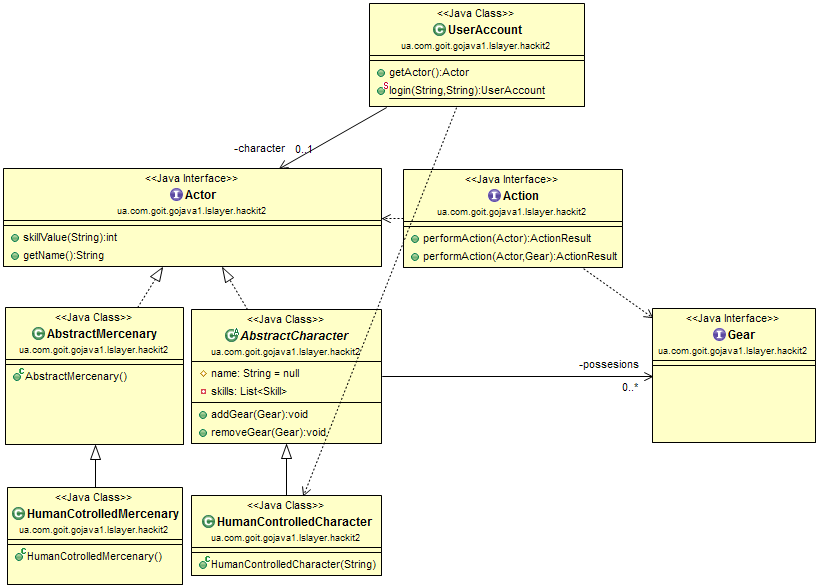
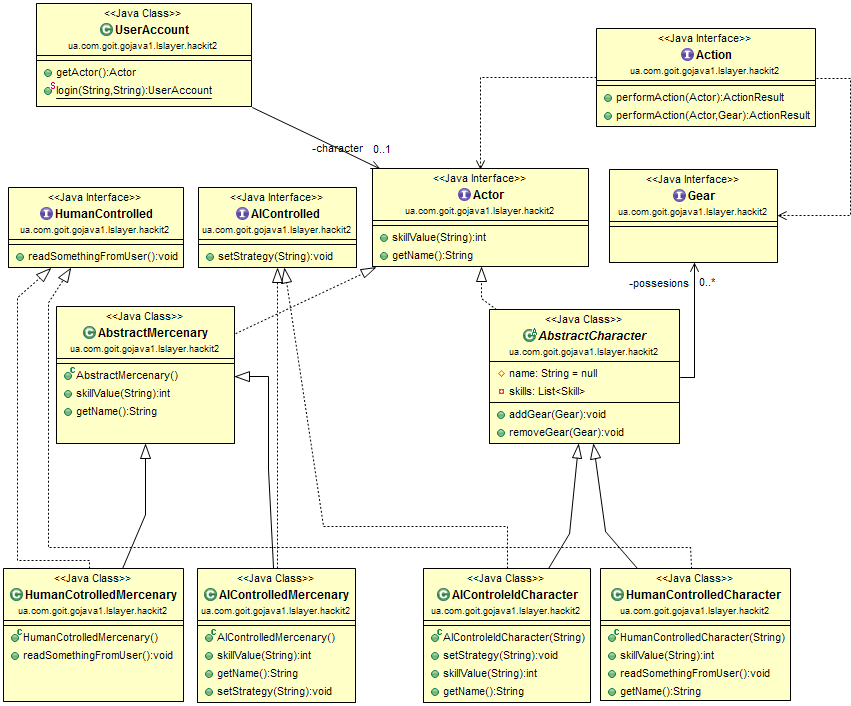
Some new stuff

diff --git a/GoJava1/viktor.gogilchyn/hackIt2/src/main/java/ua/com/goit/gojava1/lslayer/hackit2/AIControleldCharacter.java b/GoJava1/viktor.gogilchyn/hackIt2/src/main/java/ua/com/goit/gojava1/lslayer/hackit2/AIControleldCharacter.java
@@ -1,22 +1,22 @@
 package ua.com.goit.gojava1.lslayer.hackit2;
 
-public class HumanControlledCharacter extends AbstractCharacter implements HumanControlled {
+public class AIControleldCharacter extends AbstractCharacter implements AIControlled {
 
-    public HumanControlledCharacter(String name) {
+    public AIControleldCharacter(String name) {
         super(name);
         // TODO Auto-generated constructor stub
+    }
+
+    @Override
+    public void setStrategy(String strategy) {
+        // TODO Auto-generated method stub
+
     }
 
     @Override
     public int skillValue(String skillName) {
         // TODO Auto-generated method stub
         return 0;
-    }
-    
-    @Override
-    public void readSomethingFromUser() {
-        // TODO Auto-generated method stub
-        
     }
 
     @Override

diff --git a/GoJava1/viktor.gogilchyn/hackIt2/src/main/java/ua/com/goit/gojava1/lslayer/hackit2/AIControlledMercenary.java b/GoJava1/viktor.gogilchyn/hackIt2/src/main/java/ua/com/goit/gojava1/lslayer/hackit2/AIControlledMercenary.java
@@ -1,6 +1,6 @@
 package ua.com.goit.gojava1.lslayer.hackit2;
 
-public class AbstractMercenary implements Actor {
+public class AIControlledMercenary extends AbstractMercenary implements AIControlled {
 
     @Override
     public int skillValue(String skillName) {
@@ -14,5 +14,10 @@ public class AbstractMercenary implements Actor {
         return null;
     }
 
+    @Override
+    public void setStrategy(String strategy) {
+        // TODO Auto-generated method stub
+        
+    }
 
 }

diff --git a/GoJava1/viktor.gogilchyn/hackIt2/src/main/java/ua/com/goit/gojava1/lslayer/hackit2/AbstractAction.java b/GoJava1/viktor.gogilchyn/hackIt2/src/main/java/ua/com/goit/gojava1/lslayer/hackit2/AbstractAction.java
@@ -1,19 +1,7 @@
 package ua.com.goit.gojava1.lslayer.hackit2;
 
-import ua.com.goit.gojava1.lslayer.hackit2.dto.ActionResult;
-
 public abstract class AbstractAction implements Action {
 
-    @Override
-    public ActionResult performAction() {
-        // TODO Auto-generated method stub
-        return null;
-    }
 
-    @Override
-    public ActionResult performAction(Gear gear) {
-        // TODO Auto-generated method stub
-        return null;
-    }
 
 }

diff --git a/GoJava1/viktor.gogilchyn/hackIt2/src/main/java/ua/com/goit/gojava1/lslayer/hackit2/UserAccount.java b/GoJava1/viktor.gogilchyn/hackIt2/src/main/java/ua/com/goit/gojava1/lslayer/hackit2/UserAccount.java
@@ -48,7 +48,7 @@ public class UserAccount {
     }
     
     public static UserAccount createCharacterInAccount(UserAccount account, String characterName) {
-        account.setCharacter(new HumanControlledCharacter(characterName));
+        account.setCharacter(new HumanControlledCharacter(characterName)); //Here will be Factory creation. But for now - mock-up.
         return account;
     }
 }

diff --git a/GoJava1/viktor.gogilchyn/hackIt2/src/main/java/ua/com/goit/gojava1/lslayer/hackit2/HumanCotrolledMercenary.java b/GoJava1/viktor.gogilchyn/hackIt2/src/main/java/ua/com/goit/gojava1/lslayer/hackit2/HumanCotrolledMercenary.java
@@ -1,5 +1,11 @@
 package ua.com.goit.gojava1.lslayer.hackit2;
 
-public class HumanCotrolledMercenary extends AbstractMercenary {
+public class HumanCotrolledMercenary extends AbstractMercenary implements HumanControlled {
+
+    @Override
+    public void readSomethingFromUser() {
+        // TODO Auto-generated method stub
+        
+    }
 
 }

diff --git a/GoJava1/viktor.gogilchyn/hackIt2/src/main/java/ua/com/goit/gojava1/lslayer/hackit2/HumanControlled.java b/GoJava1/viktor.gogilchyn/hackIt2/src/main/java/ua/com/goit/gojava1/lslayer/hackit2/HumanControlled.java
@@ -1,0 +1,6 @@
+package ua.com.goit.gojava1.lslayer.hackit2;
+
+public interface HumanControlled  {
+    public void readSomethingFromUser();
+    //Don't know what should be here. Let it be empty for now. 
+}

diff --git a/GoJava1/viktor.gogilchyn/hackIt2/src/main/java/ua/com/goit/gojava1/lslayer/hackit2/AIControlled.java b/GoJava1/viktor.gogilchyn/hackIt2/src/main/java/ua/com/goit/gojava1/lslayer/hackit2/AIControlled.java
@@ -1,0 +1,5 @@
+package ua.com.goit.gojava1.lslayer.hackit2;
+
+public interface AIControlled {
+    public void setStrategy(String strategy);
+}
